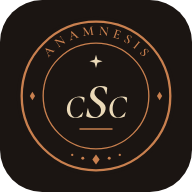
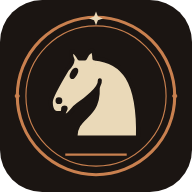
Icône propre à Caïssa (cavalier aux couleurs Anamnesis)
L'icône d'appli n'est plus identique à celle de Tengen. Le sceau reste
en favicon et dans l'en-tête. Cache du service worker passé en v1.0.1.

Claude-Session: https://claude.ai/code/session_011dHX97PTePkjpYhU9DuEe7

Changed region(s): [[0.0625, 0.0625, 0.9375, 0.9375]]

diff --git a/sw.js b/sw.js
@@ -1,5 +1,5 @@
 // Service worker : l'appli et Stockfish fonctionnent hors ligne après la première visite.
-const CACHE = 'caissa-v1.0.0';
+const CACHE = 'caissa-v1.0.1';
 const ASSETS = [
   './', 'index.html', 'manifest.webmanifest',
   'css/app.css', 'css/pieces.css',
@@ -9,7 +9,7 @@ const ASSETS = [
   'data/puzzles.json',
   'fonts/cormorant-garamond-latin-500-normal.woff2', 'fonts/cormorant-garamond-latin-600-normal.woff2',
   'fonts/cormorant-garamond-latin-700-normal.woff2', 'fonts/cormorant-garamond-latin-600-italic.woff2',
-  'icons/logo-small.svg', 'icons/app-icon.svg', 'icons/icon-192.png', 'icons/icon-512.png', 'icons/apple-touch-icon.png',
+  'icons/logo-small.svg', 'icons/caissa-icon.svg', 'icons/icon-192.png', 'icons/icon-512.png', 'icons/apple-touch-icon-v2.png',
 ];
 
 self.addEventListener('install', e => {

diff --git a/index.html b/index.html
@@ -11,7 +11,7 @@
 <meta name="apple-mobile-web-app-status-bar-style" content="black-translucent">
 <meta name="apple-mobile-web-app-title" content="Caïssa">
 <link rel="icon" type="image/svg+xml" href="icons/logo-small.svg">
-<link rel="apple-touch-icon" href="icons/apple-touch-icon.png">
+<link rel="apple-touch-icon" href="icons/apple-touch-icon-v2.png">
 <link rel="manifest" href="manifest.webmanifest">
 <link rel="stylesheet" href="css/app.css">
 <link rel="stylesheet" href="css/pieces.css">

diff --git a/js/app.js b/js/app.js
@@ -10,7 +10,7 @@ import { dueMistakes, weaknessStats, CATEGORIES, listGames } from './games.js';
 import { advice } from './notebook.js';
 import { engine } from './engine.js';
 
-export const VERSION = '1.0.0';
+export const VERSION = '1.0.1';
 
 const ROUTES = { '': home(), problemes: puzzles, jouer: play, analyse: analysis, carnet: notebook };
 let current = null;
